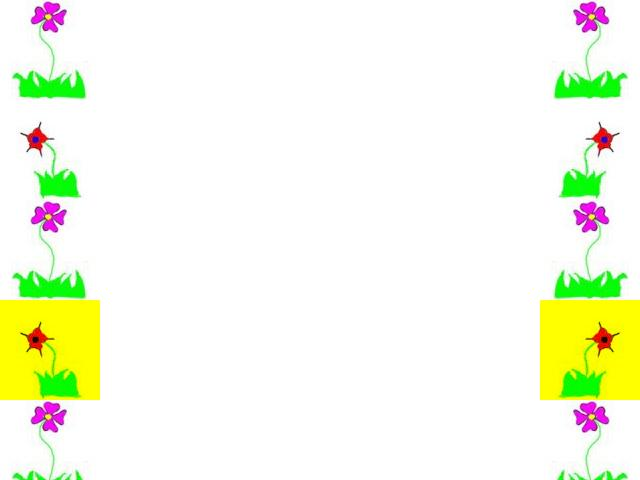
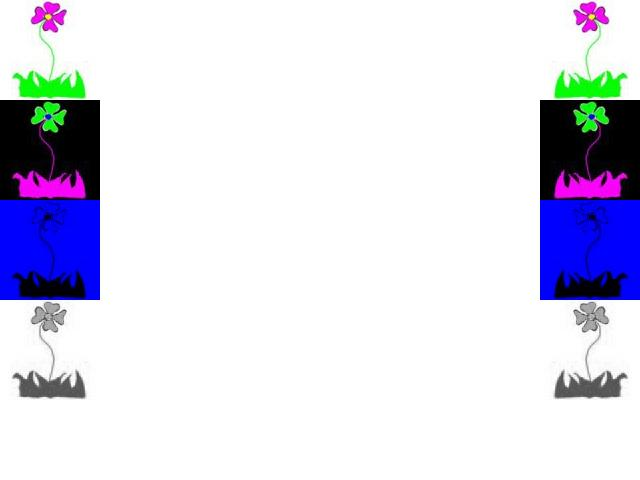
complete

Changed region(s): [[0.8438, 0.1875, 1.0, 1.0], [0.0, 0.1875, 0.1562, 1.0]]

diff --git a/src/Picture.java b/src/Picture.java
@@ -362,4 +362,37 @@ public class Picture extends SimplePicture {
 			}
 		}
 	}
+
+	public void copy(Picture fromPic, int fromStartRow, int fromEndRow, int fromStartCol,
+					int fromEndCol, int toStartRow, int toStartCol) {
+		Pixel fromPixel = null;
+		Pixel toPixel = null;
+		Pixel[][] toPixels = this.getPixels2D();
+		Pixel[][] fromPixels = fromPic.getPixels2D();
+		for (int fromRow = fromStartRow, toRow = toStartRow; fromRow < fromEndRow
+				&& toRow < toPixels.length; fromRow++, toRow++) {
+			for (int fromCol = fromStartCol, toCol = toStartCol; fromCol < fromEndCol
+					&& toCol < toPixels[0].length; fromCol++, toCol++) {
+				fromPixel = fromPixels[fromRow][fromCol];
+				toPixel = toPixels[toRow][toCol];
+				toPixel.setColor(fromPixel.getColor());
+			}
+		}
+	}
+
+	public void myCollage() {
+		Picture flower1 = new Picture("flower1.jpg");
+		Picture flowerNegate = new Picture(flower1);
+		flowerNegate.negate();
+		Picture flowerOnlyBlue = new Picture(flower1);
+		flowerOnlyBlue.keepOnlyBlue();
+		Picture flowerGrayscale = new Picture(flower1);
+		flowerGrayscale.grayscale();
+		this.copy(flower1, 0, 0);
+		this.copy(flowerNegate, 100, 0);
+		this.copy(flowerOnlyBlue, 200, 0);
+		this.copy(flowerGrayscale, 300, 0);
+		this.mirrorVertical();
+		this.write("collage.jpg");
+	}
 } // this } is the end of class Picture, put all new methods before this

diff --git a/src/PictureTester.java b/src/PictureTester.java
@@ -133,6 +133,21 @@ public class PictureTester
     seagull.explore();
   }
 
+  public static void testCopy()  {
+    Picture canvas = new Picture("640x480.jpg");
+    Picture beach = new Picture("beach.jpg");
+    canvas.copy(beach, 0, 200, 0, 200, 0, 0);
+    canvas.explore();
+    canvas.copy(beach, 0, 400, 0, 400, 200, 200);
+    canvas.explore();
+  }
+
+  public static void testMyCollage()  {
+    Picture canvas = new Picture("640x480.jpg");
+    canvas.myCollage();
+    canvas.explore();
+  }
+
 
   /** Main method for testing.  Every class can have a main
     * method in Java */
@@ -157,7 +172,8 @@ public class PictureTester
     // testMirrorGull();
     // testMirrorDiagonal();
     // testCollage();
-    //testCopy();
+    // testCopy();
+    testMyCollage();
     //testEdgeDetection();
     //testEdgeDetection2();
     //testChromakey();
